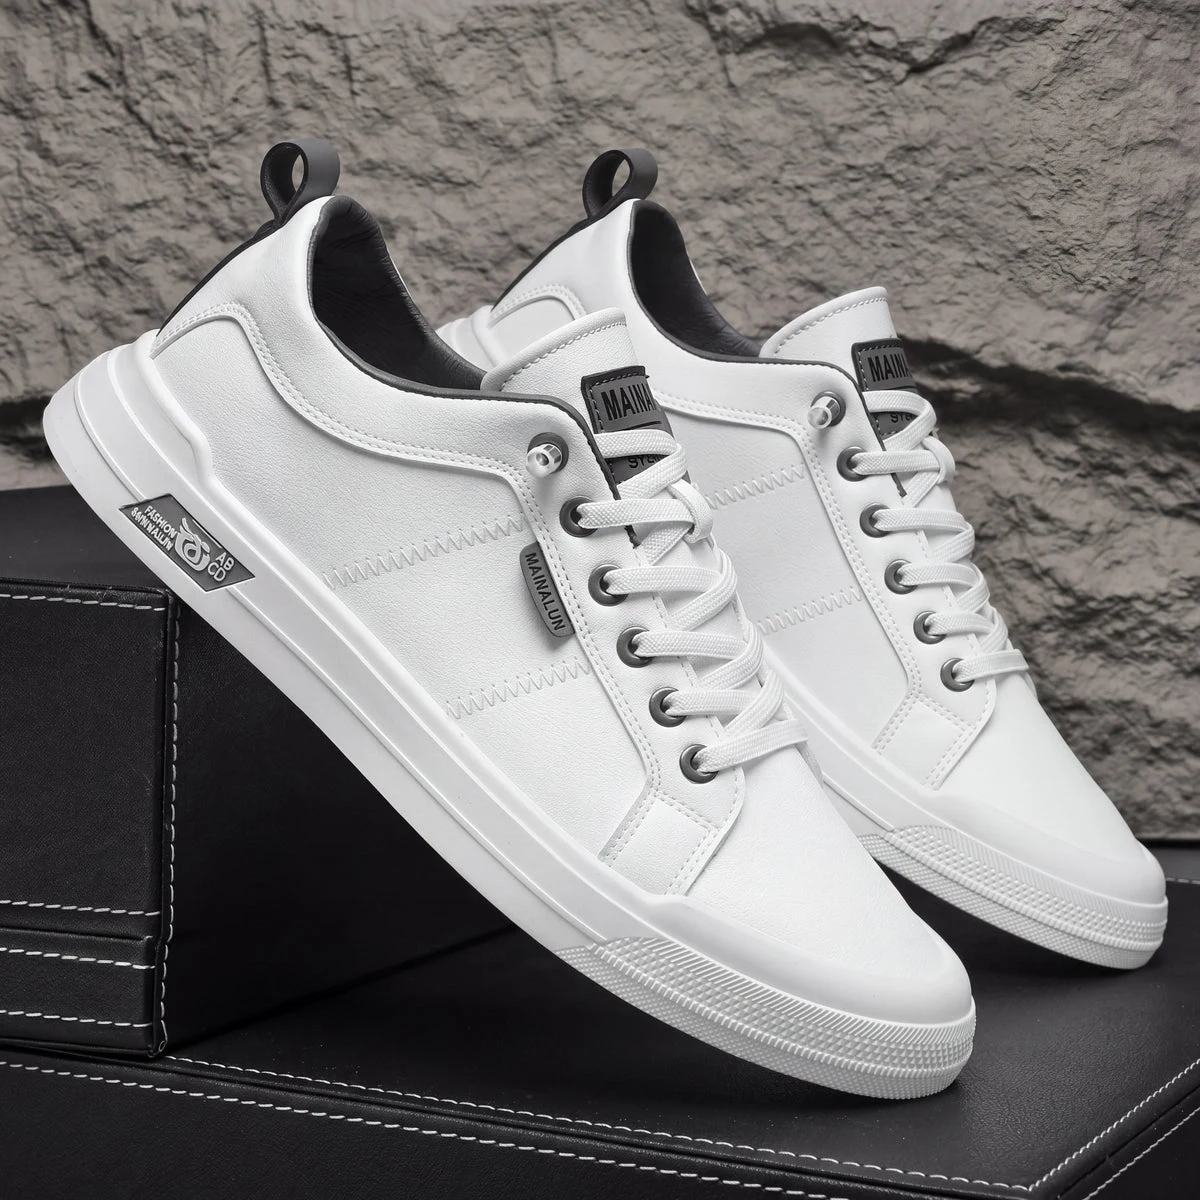
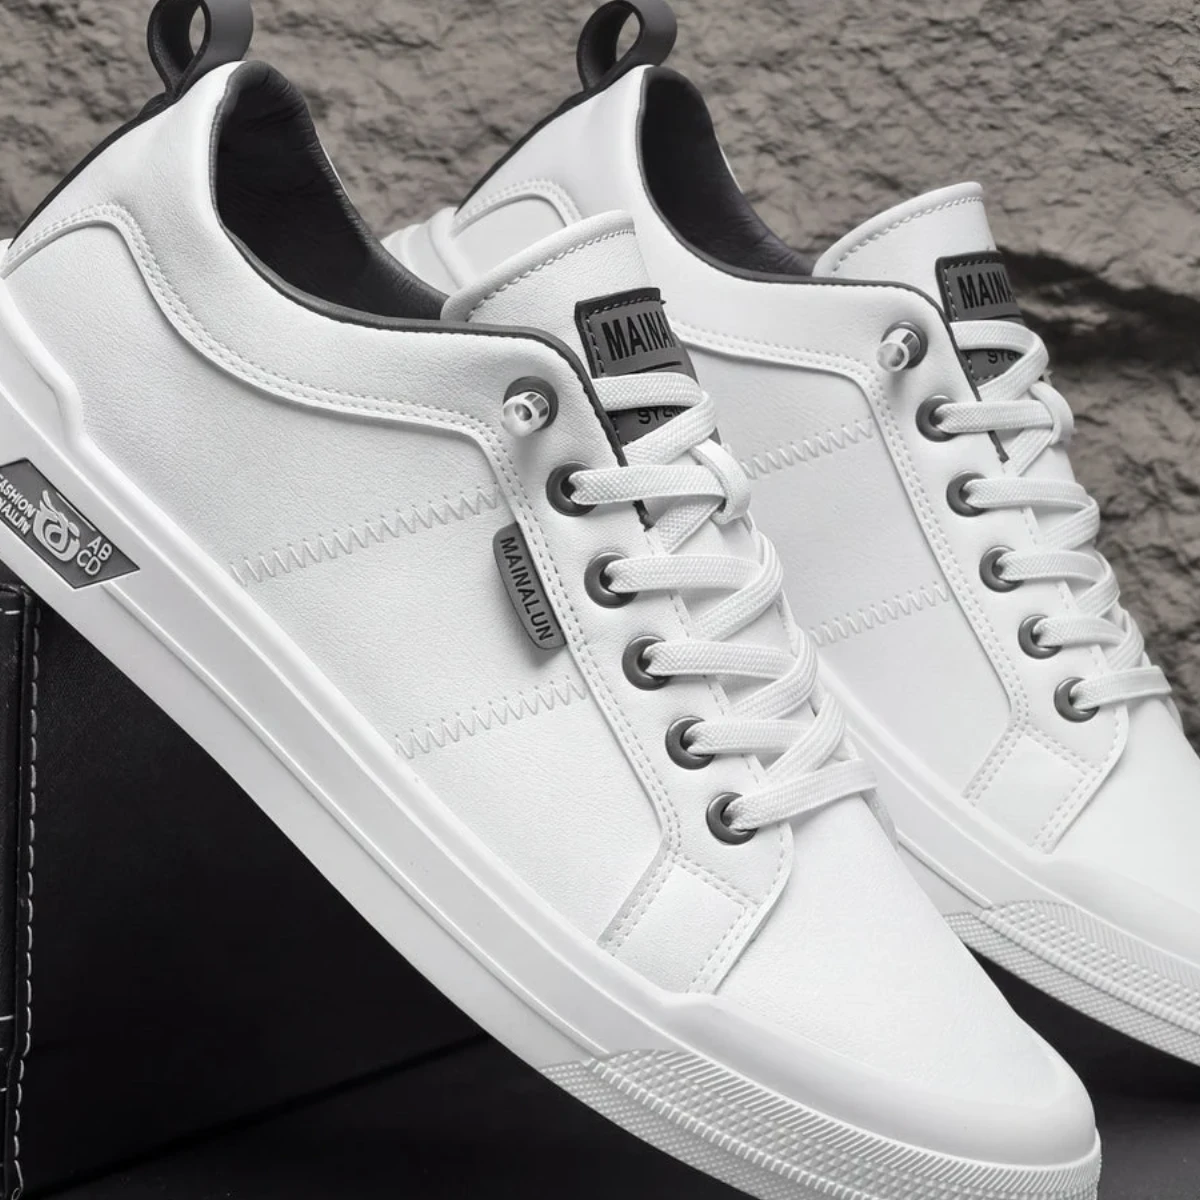
fix: Harrington images cropped to 75% center to remove edge clutter
Re-processes all 6 Harrington product images by decoding to PNG,
center-cropping to the inner 900x900 region, and re-encoding to
WebP at 1200x1200. This eliminates the partial shoeboxes, chair
edges, and small thumbnails that were sitting at the borders of
the source photos and making the gallery feel cropped on mobile.

Effect on each image:
- c95b49d3b5b5 (Black): now shows the full pair of trainers
  cleanly, no flanking shoebox or corner thumbnail
- c761a756be18 (White): trainer fills the frame, only a small
  hint of the box remains
- 6fe840cdbfd3 (White & Gray): pair of trainers prominent
- b70ce05ca89f (3-color showcase): three trainers lined up clean
- ae7e797f777b / f723e4c28c97 (lifestyle): trainer is more
  prominent but composition is still busy with model legs;
  removed from the gallery entirely (kept as files in case)

Gallery now shows 4 images (one per colour + a showcase),
matching the structure used by low-top-sneakers and the rest
of the shoe catalogue.

diff --git a/js/products.js b/js/products.js
@@ -2044,9 +2044,7 @@
                 'assets/products/c95b49d3b5b5.webp',
                 'assets/products/c761a756be18.webp',
                 'assets/products/6fe840cdbfd3.webp',
-                'assets/products/b70ce05ca89f.webp',
-                'assets/products/ae7e797f777b.webp',
-                'assets/products/f723e4c28c97.webp'
+                'assets/products/b70ce05ca89f.webp'
             ],
             colorVariants: [
                 { name: 'Obsidian Black',      image: 'assets/products/c95b49d3b5b5.webp' },
